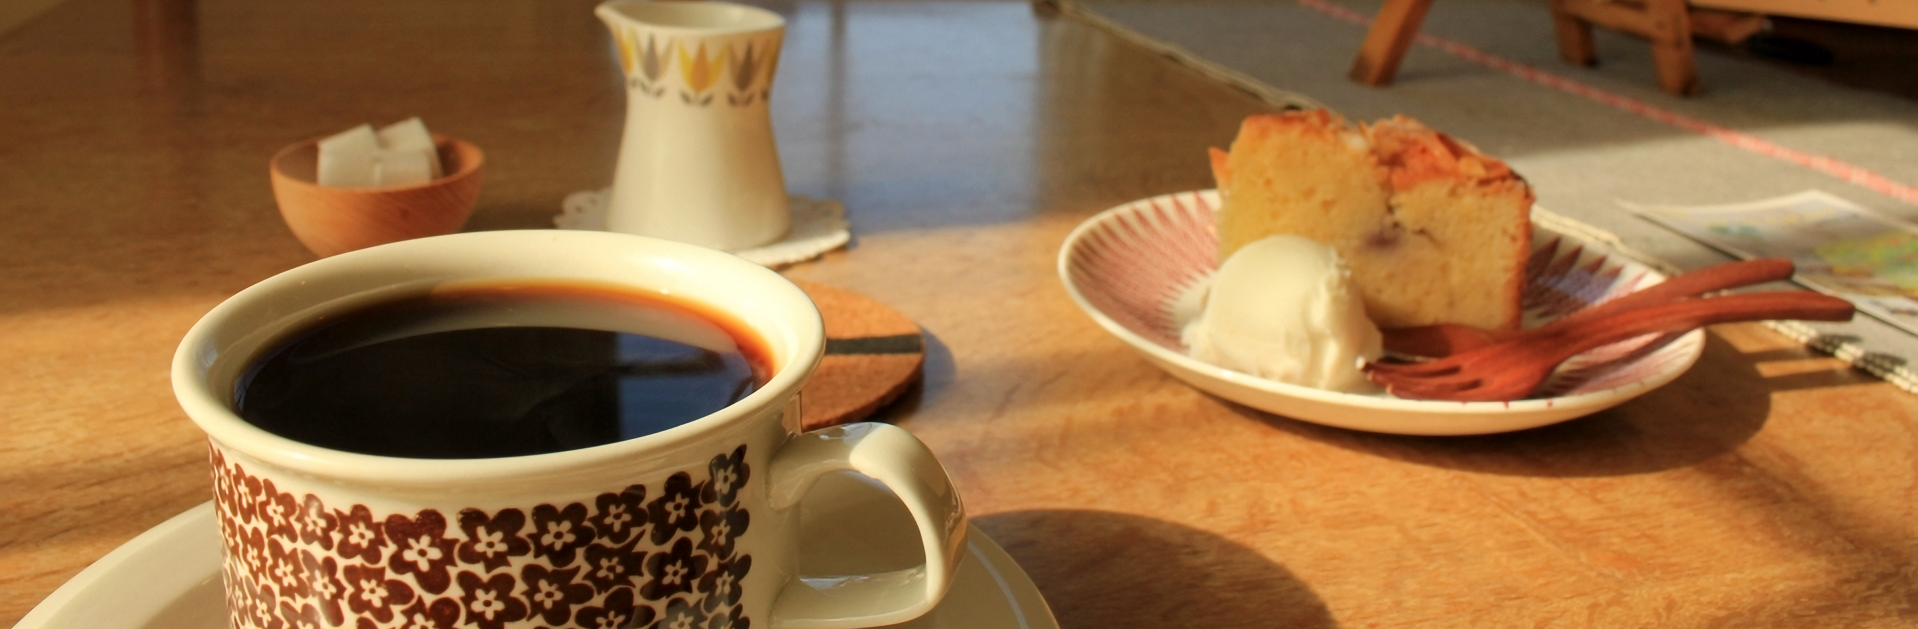
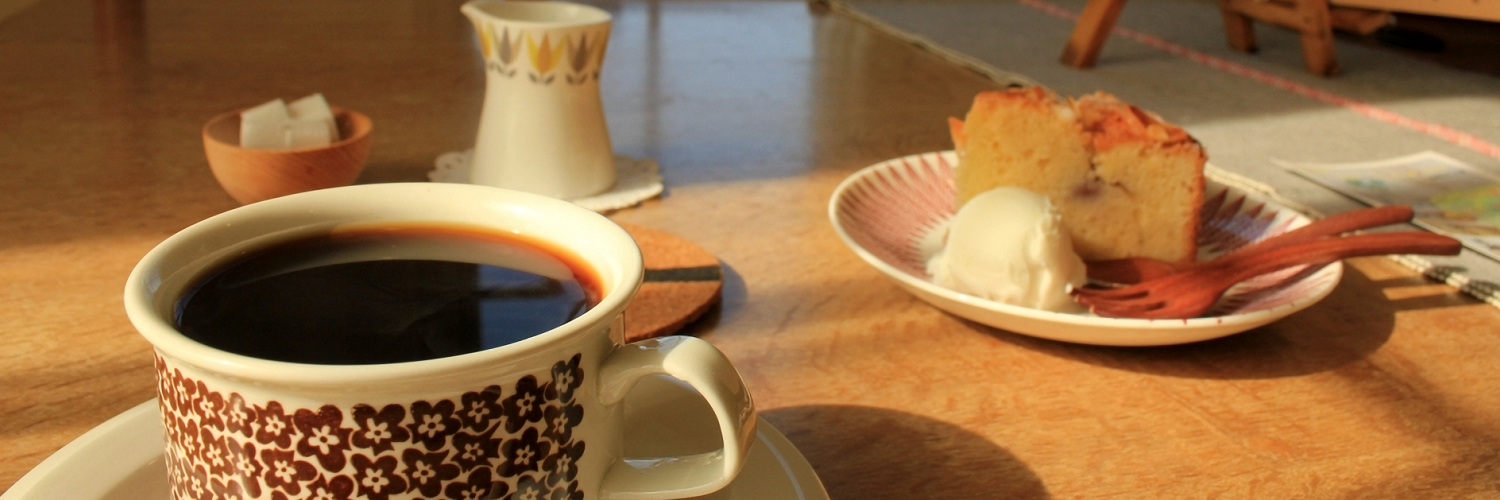
replace images

diff --git a/index.html b/index.html
@@ -79,7 +79,7 @@
         <!-- Work -->
         <article id="work">
           <h2 class="major">Work</h2>
-          <span class="image main"><img src="./images/pic02.jpg" alt="" /></span>
+          <span class="image main"><img src="./images/pic02.png" alt="" /></span>
           <ul class="icons">
             <li><a href="https://github.com/RomTin" class="icon fa-github"><span class="label">Github</span></a></li>
             <li><a href="https://www.pixiv.me/mic_psm" class="icon fa-paint-brush"><span class="label">Pixiv</span></a></li>
